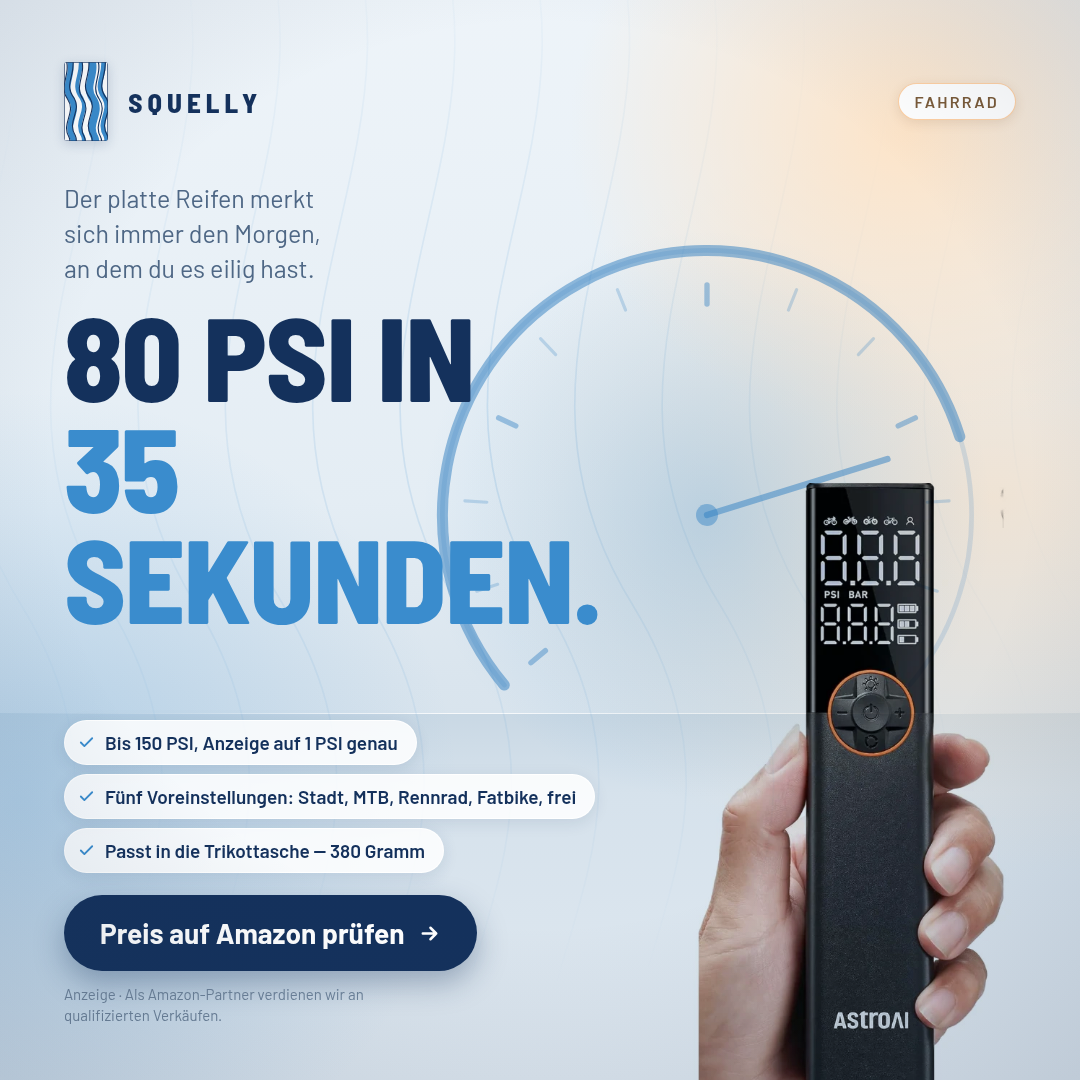
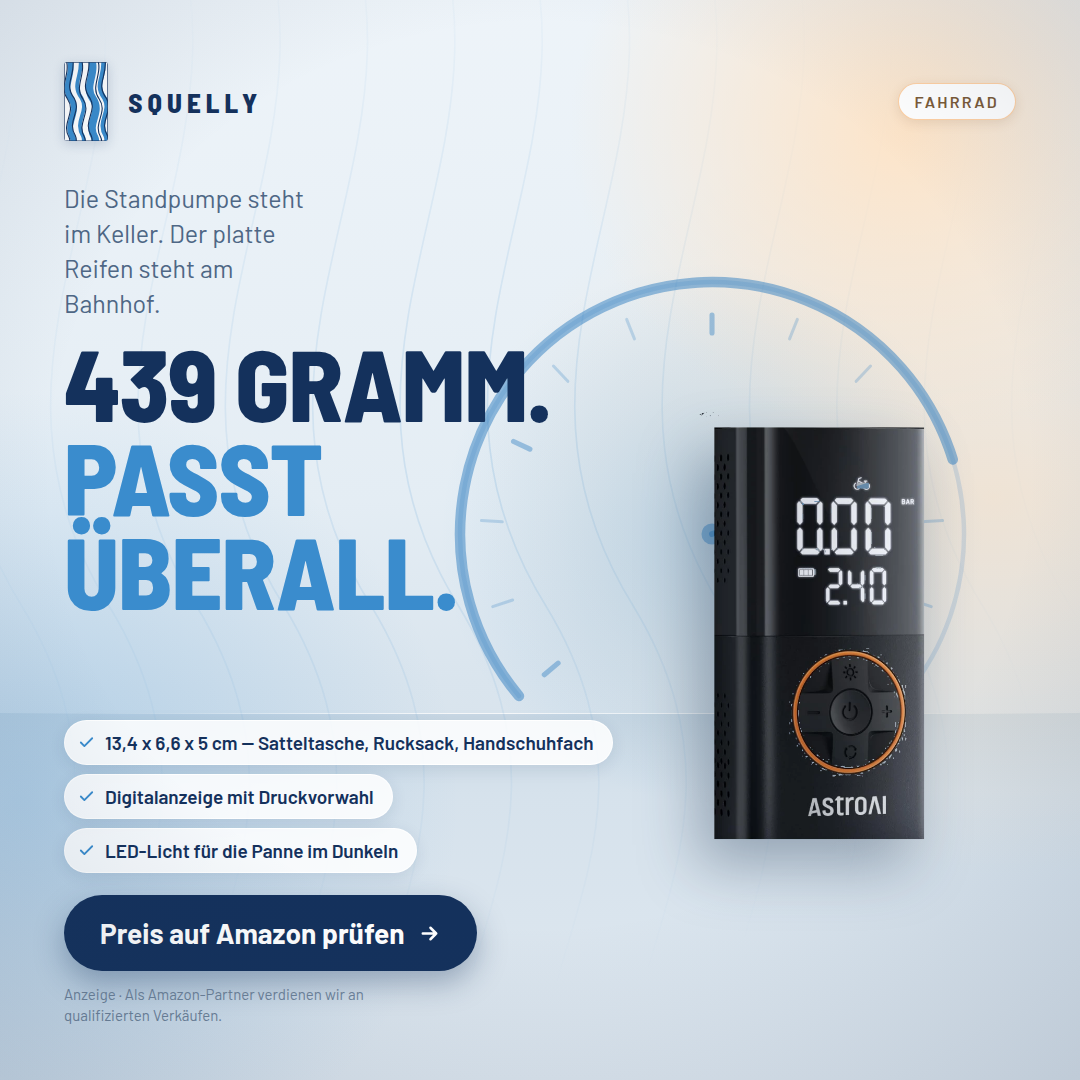
Rebuild the pump creatives on the right model
The five variants showed the wrong AstroAI pump — the slim stick from
the catalogue, not the compact block the listing actually sells. All
five now carry the correct product and only claims that appear on its
own product page.

- Product cut out of the A+ photo by hue: its backdrop is blue while
  the housing is neutral, so the two separate cleanly. Edge remnants
  are cleared by flood fill from the borders.
- With real transparency the stage drops the multiply trick for normal
  compositing, a drop shadow angled to the key light, and a contact
  shadow — this one stands rather than being held.
- Copy rebuilt on verified figures: 439 g, 13.4 x 6.6 x 5 cm, 4.5
  stars, category bestseller, 10,000+ sold, LED light.
- Removed everything belonging to the other model — 35 seconds, 150
  PSI, 25 tires per charge — plus two claims the page never makes:
  bundled Presta/Schrader adapters and a PSI readout. The display
  shows BAR.

Also fixes German umlauts I flattened while rewriting the copy.

Claude-Session: https://claude.ai/code/session_01Kc8PukdsvKsrThR87MMvZu

diff --git a/werbemittel/fahrradpumpe/vorlage.html b/werbemittel/fahrradpumpe/vorlage.html
@@ -38,8 +38,11 @@ body{background:#2a2a2a;display:flex;flex-direction:column;align-items:center;ga
 .vig{position:absolute;inset:0;z-index:6;pointer-events:none;
   background:radial-gradient(78% 72% at 50% 44%, transparent 58%, rgba(28,54,88,.16) 100%)}
 
-.stage{position:absolute;z-index:3;mix-blend-mode:multiply}
-.stage img{width:100%;height:100%;object-fit:contain;display:block}
+/* Echter Freisteller mit Alpha — kein Multiply nötig, dafür ein
+   Schlagschatten, der zum Licht von rechts oben passt. */
+.stage{position:absolute;z-index:3}
+.stage img{width:100%;height:100%;object-fit:contain;display:block;
+  filter:drop-shadow(-16px 26px 30px rgba(18,40,70,.34))}
 .contact{position:absolute;z-index:2;border-radius:50%;
   background:radial-gradient(closest-side, rgba(22,45,76,.5), rgba(22,45,76,0) 76%)}
 
@@ -84,59 +87,53 @@ body{background:#2a2a2a;display:flex;flex-direction:column;align-items:center;ga
 .cta svg{width:23px;height:23px}
 .note{font-size:15px;color:#6d8299;line-height:1.4;max-width:44ch}
 
-/* Das Produkt wird gehalten — es läuft unten aus dem Bild, statt
-   auf einer Fläche zu stehen. Deshalb hier kein Aufsetzschatten. */
-/* ---------- Variante A: Tempo ---------- */
-/* Quadratisch wie die Bildvorlage: sonst entsteht durch das Einpassen
-   ein Leerrand, und die Schnittkante der Hand wird sichtbar. */
-#va .stage  {right:-96px;bottom:-40px;width:650px;height:650px}
-#va .fx     {left:392px;bottom:250px;width:630px;height:630px}
-/* Der Sekundenzähler trägt die Anzeige — deshalb groß und für sich */
-#va .head{font-size:118px;max-width:9ch}
+/* Ein Quader, der steht — anders als die gehaltene Stabpumpe bekommt
+   er wieder einen Aufsetzschatten. */
+.contact{position:absolute;z-index:2;border-radius:50%;
+  background:radial-gradient(closest-side, rgba(22,45,76,.44), rgba(22,45,76,0) 76%)}
 
-/* ---------- Variante B: Lieferumfang ---------- */
-#vb .stage  {right:-34px;bottom:-26px;width:790px;height:790px}
-#vb .fx     {left:336px;bottom:268px;width:540px;height:540px;opacity:.7}
-#vb .head{font-size:92px;max-width:12ch}
+/* ---------- Variante A: kompakt ---------- */
+#va .stage  {right:26px;bottom:212px;width:470px;height:470px}
+#va .fx     {left:412px;bottom:246px;width:600px;height:600px}
+#va .head{font-size:100px;max-width:10ch}
 
-/* ---------- Variante C: Ventile ---------- */
-#vc .stage  {right:-84px;bottom:-40px;width:632px;height:632px}
-#vc .fx     {left:406px;bottom:268px;width:580px;height:580px}
-#vc .head{font-family:'Barlow Semi Condensed';font-size:86px;line-height:1.02;max-width:11ch}
-/* Die drei Ventilnamen als eigene Zeilen — das ist die Botschaft */
+/* ---------- Variante B: soziale Bestätigung ---------- */
+#vb .stage  {right:34px;bottom:216px;width:436px;height:436px}
+#vb .fx     {left:428px;bottom:252px;width:560px;height:560px;opacity:.75}
+#vb .head{font-size:96px;max-width:12ch}
+
+/* ---------- Variante C: mobil ---------- */
+#vc .stage  {right:40px;bottom:214px;width:452px;height:452px}
+#vc .fx     {left:418px;bottom:250px;width:580px;height:580px}
+#vc .head{font-family:'Barlow Semi Condensed';font-size:92px;line-height:1.02;max-width:11ch}
 #vc .head span{display:block}
 #vc .head .b2{color:var(--blue)}
 
-
 /* ---------- Variante D: gespiegelt ---------- */
-/* Produkt links, Text rechts. Gleiche Bühne, anderer Rhythmus —
-   im Feed fällt ein gespiegeltes Motiv neben den anderen auf. */
 #vd .inner{align-items:flex-end;text-align:right}
 #vd .top{width:100%}
-#vd .said,#vd .head{max-width:none}
 #vd .said{max-width:20ch}
 #vd .head{font-size:96px;max-width:12ch}
 #vd .proof{align-items:flex-end}
 #vd .pf{flex-direction:row-reverse;padding:10px 13px 10px 18px}
 #vd .foot{align-items:flex-end;text-align:right}
 #vd .note{max-width:40ch}
-#vd .stage{left:-70px;bottom:-30px;width:660px;height:660px}
-#vd .fx{right:404px;bottom:262px;width:600px;height:600px}
+#vd .stage{left:44px;bottom:214px;width:452px;height:452px}
+#vd .fx{right:424px;bottom:250px;width:580px;height:580px}
 #vd .sun{background:
   radial-gradient(46% 42% at 16% 12%, rgba(255,227,196,.92) 0%, rgba(255,227,196,0) 68%),
   radial-gradient(70% 50% at 8% 46%, rgba(255,214,170,.42) 0%, rgba(255,214,170,0) 70%)}
 #vd .cool{background:radial-gradient(58% 54% at 98% 74%, rgba(58,140,205,.26) 0%, rgba(58,140,205,0) 70%)}
+#vd .stage img{filter:drop-shadow(16px 26px 30px rgba(18,40,70,.34))}
 
 /* ---------- Variante E: die Zahlen ---------- */
-/* Drei geprüfte Werte tragen die Anzeige. Kein Bildwitz, nur Fakten —
-   funktioniert bei Leuten, die schon wissen, was sie suchen. */
 #ve .head{font-size:74px;max-width:14ch;margin-top:8px}
-#ve .stage{right:-104px;bottom:-34px;width:596px;height:596px}
-#ve .fx{left:432px;bottom:300px;width:520px;height:520px;opacity:.8}
+#ve .stage{right:36px;bottom:200px;width:404px;height:404px}
+#ve .fx{left:452px;bottom:262px;width:500px;height:500px;opacity:.8}
 .zahlen{display:flex;gap:0;margin-top:30px;max-width:620px}
 .zahlen div{flex:1;padding-right:22px;border-right:1px solid rgba(20,49,92,.16)}
 .zahlen div:last-child{border-right:none}
-.zahlen b{display:block;font-family:'Barlow Semi Condensed';font-weight:800;font-size:76px;
+.zahlen b{display:block;font-family:'Barlow Semi Condensed';font-weight:800;font-size:72px;
   line-height:.92;color:var(--blue);letter-spacing:-.02em}
 .zahlen span{display:block;font-size:17px;font-weight:600;color:var(--ink-soft);margin-top:7px;
   line-height:1.3;max-width:11ch}

diff --git a/werbemittel/fahrradpumpe/bauen.py b/werbemittel/fahrradpumpe/bauen.py
@@ -74,42 +74,46 @@ def zahlenblock(werte):
 BILDER = json.load(open(d + 'pumpe-bilder.json'))
 
 VARIANTEN = [
+  # Alle Angaben stammen von der amazon.de-Produktseite dieses Geräts
+  # (439 g, 13,4 x 6,6 x 5 cm, 4,5 Sterne, Bestseller Nr. 1, 10.000+ gekauft,
+  # UVP 30,99 EUR, -23 %). Die Werte des schlanken Stab-Modells - 35 Sekunden,
+  # 25 Reifen, 150 PSI - gelten hier NICHT und wurden entfernt.
   dict(id="va", tag="Fahrrad", bild="hand", anteil=0.78,
-       alt="Elektrische Fahrradpumpe von AstroAI mit Digitalanzeige, in einer Hand gehalten",
-       said='Der platte Reifen merkt sich immer den Morgen, an dem du es eilig hast.',
-       kopf='80 PSI in<br><span class="big">35 Sekunden.</span>',
-       belege=["Bis 150 PSI, Anzeige auf 1 PSI genau",
-               "Fünf Voreinstellungen: Stadt, MTB, Rennrad, Fatbike, frei",
-               "Passt in die Trikottasche — 380 Gramm"]),
+       alt="Kompakte elektrische Luftpumpe von AstroAI mit Digitalanzeige",
+       said='Die Standpumpe steht im Keller. Der platte Reifen steht am Bahnhof.',
+       kopf='439 Gramm.<br><span class="big">Passt überall.</span>',
+       belege=["13,4 x 6,6 x 5 cm — Satteltasche, Rucksack, Handschuhfach",
+               "Digitalanzeige mit Druckvorwahl",
+               "LED-Licht für die Panne im Dunkeln"]),
   dict(id="vb", tag="Fahrrad", bild="set", anteil=0.6,
-       alt="Elektrische Fahrradpumpe mit Schlauch, Ventiladaptern, USB-C-Kabel und Aufbewahrungsbeutel",
-       said='Einmal laden reicht für die ganze Familie — und den Nachbarn.',
-       kopf='Einmal laden,<br><span class="big">25 Reifen.</span>',
-       belege=["Schlauch, Adapter, Beutel und USB-C-Kabel liegen bei",
-               "Lädt per USB-C, wie alles andere auch",
-               "LED-Licht mit drei Modi für die Panne im Dunkeln"]),
+       alt="Kompakte elektrische Luftpumpe von AstroAI mit Zubehör",
+       said='Über zehntausend Leute haben sie schon gekauft.',
+       kopf='4,5 Sterne.<br><span class="big">10.000+ verkauft.</span>',
+       belege=["Bestseller Nr. 1 bei Reifendruckkompressoren",
+               "Für Fahrrad, E-Bike und Auto",
+               "LED-Licht ist eingebaut"]),
   dict(id="vc", tag="Fahrrad", bild="hand", anteil=0.5,
-       alt="Elektrische Fahrradpumpe von AstroAI mit Digitalanzeige, in einer Hand gehalten",
-       said='Drei Ventilarten, drei Adapter, keine Ausreden mehr.',
-       kopf='<span>Presta.</span><span>Schrader.</span><span class="b2">Dunlop.</span>',
-       belege=["Alle drei Adapter sind dabei",
-               "Auch für E-Bike, Motorrad und Bälle",
-               "Zwei Anzeigen: Sollwert und Istwert gleichzeitig"]),
+       alt="Kompakte elektrische Luftpumpe von AstroAI mit Digitalanzeige",
+       said='Am Rahmen, in der Satteltasche oder im Rucksack.',
+       kopf='<span>Mobil.</span><span class="b2">Kompakt.</span><span>Dabei.</span>',
+       belege=["Passt an den Fahrradrahmen",
+               "Verschwindet in jeder Satteltasche",
+               "Wiegt weniger als eine volle Trinkflasche"]),
   dict(id="vd", tag="Fahrrad", bild="hand", anteil=0.66,
-       alt="Elektrische Fahrradpumpe von AstroAI mit Digitalanzeige, in einer Hand gehalten",
+       alt="Kompakte elektrische Luftpumpe von AstroAI mit Digitalanzeige",
        said='Die Standpumpe im Keller hat ihren letzten Einsatz hinter sich.',
        kopf='Kein Treten<br><span class="big">mehr nötig.</span>',
        belege=["Motor macht die Arbeit, du hältst nur",
-               "Abschaltung beim eingestellten Druck",
-               "Kein Nachmessen — die Anzeige zeigt mit"]),
+               "Druck einstellen, Gerät schaltet selbst ab",
+               "Anzeige zeigt mit — kein Nachmessen"]),
   dict(id="ve", tag="Fahrrad", bild="hand", anteil=0.85,
-       alt="Elektrische Fahrradpumpe von AstroAI mit Digitalanzeige, in einer Hand gehalten",
+       alt="Kompakte elektrische Luftpumpe von AstroAI mit Digitalanzeige",
        said='Wenn du schon weißt, was du suchst:',
        kopf='Die Zahlen, die zählen.',
-       zahlen=[("150", "PSI Höchstdruck"), ("35", "Sekunden auf 80 PSI"),
-               ("25", "Reifen pro Ladung")],
-       belege=["Presta, Schrader und Dunlop im Set",
-               "Zwei Anzeigen: Sollwert und Istwert"]),
+       zahlen=[("439", "Gramm"), ("13,4", "Zentimeter lang"),
+               ("4,5", "Sterne bei Amazon")],
+       belege=["Bestseller Nr. 1 in seiner Kategorie",
+               "Digitalanzeige mit Druckvorwahl"]),
 ]
 
 teile = [DEFS]
@@ -121,6 +125,7 @@ for v in VARIANTEN:
   %(bogen)s
   %(tex)s
   <div class="sun"></div><div class="cool"></div>
+  <div class="contact"></div>
   <div class="stage"><img src="%(img)s" alt="%(alt)s"></div>
   <div class="vig"></div>
   <div class="inner">
